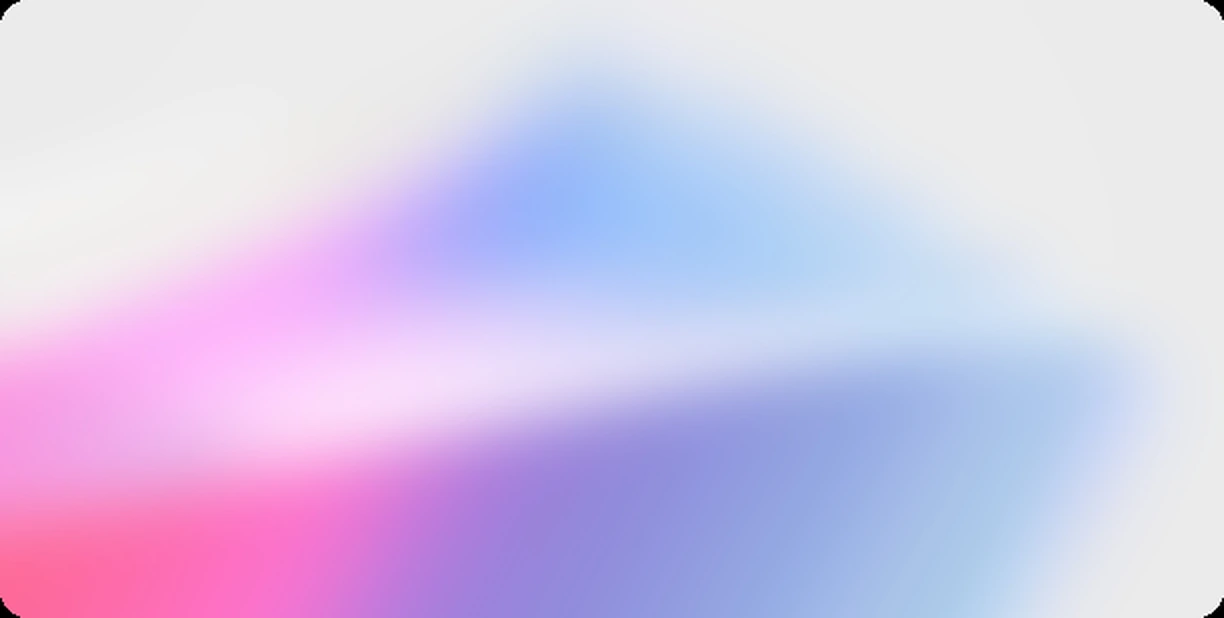
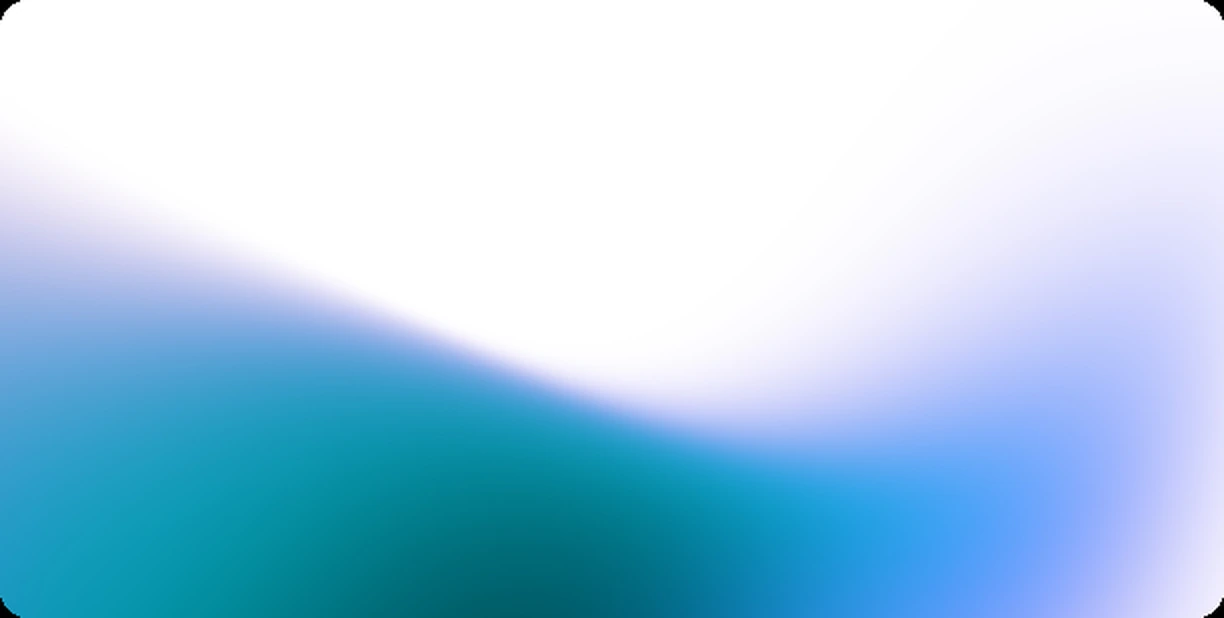
LP mobile: corrige overflow horizontal (audience 1 col), typo pare, fundos bonus cards 4/5/6

diff --git a/antipato/index.html b/antipato/index.html
@@ -287,7 +287,7 @@
           <p class="recap-total">Tudo isso valeria R$ 692 (fácil)</p>
         </article>
         <article class="card card-white rationale">
-          <h3 class="h-24-eb">Mas para e pensa...</h3>
+          <h3 class="h-24-eb">Mas pare e pensa...</h3>
           <p class="body-20" style="text-wrap: balance">Se eu te cobrasse os R$ 692 e tudo o que esse sistema fizesse fosse te dar a mudança bruta de postura pra você sentar na mesa, parar de vender tela e passar a vender decisão — cobrando no mínimo o dobro na sua próxima proposta —, ele já não teria se pago na hora?</p>
           <p class="body-20"><strong>A boa notícia é que você não vai pagar nem perto disso.</strong></p>
         </article>

diff --git a/antipato/styles.css b/antipato/styles.css
@@ -842,6 +842,8 @@ s { text-decoration: line-through; }
   .big-strike-no, .strike-line .tag-lime { font-size: clamp(24px, 7vw, 40px); }
   .strike-line .tag-lime { white-space: normal; }
   .agitation, .pergunto, .steps, .deliver, .audience { padding-block: 40px; }
+  .audience { grid-template-columns: 1fr; column-gap: 0; row-gap: 40px; }
+  .audience-list li .txt { max-width: none; }
   .agitation-body { margin-top: 40px; }
   .versus { margin-top: 40px; }
   .scribble { display: none; }